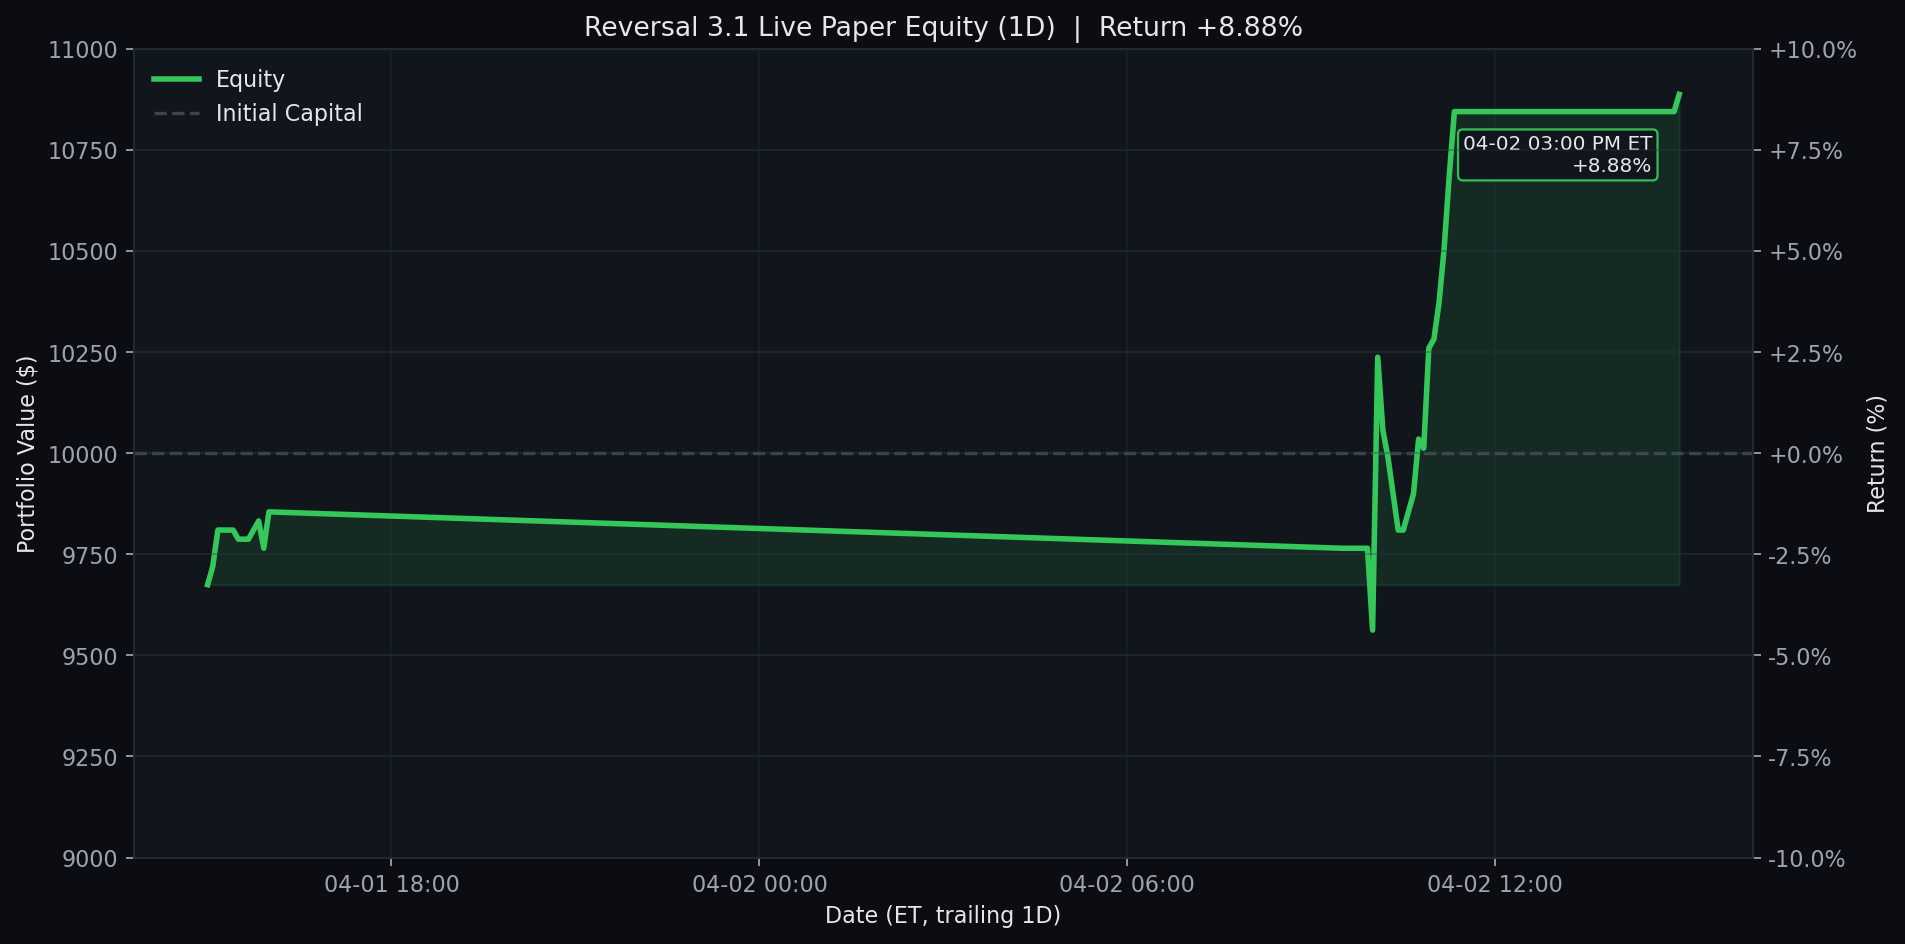
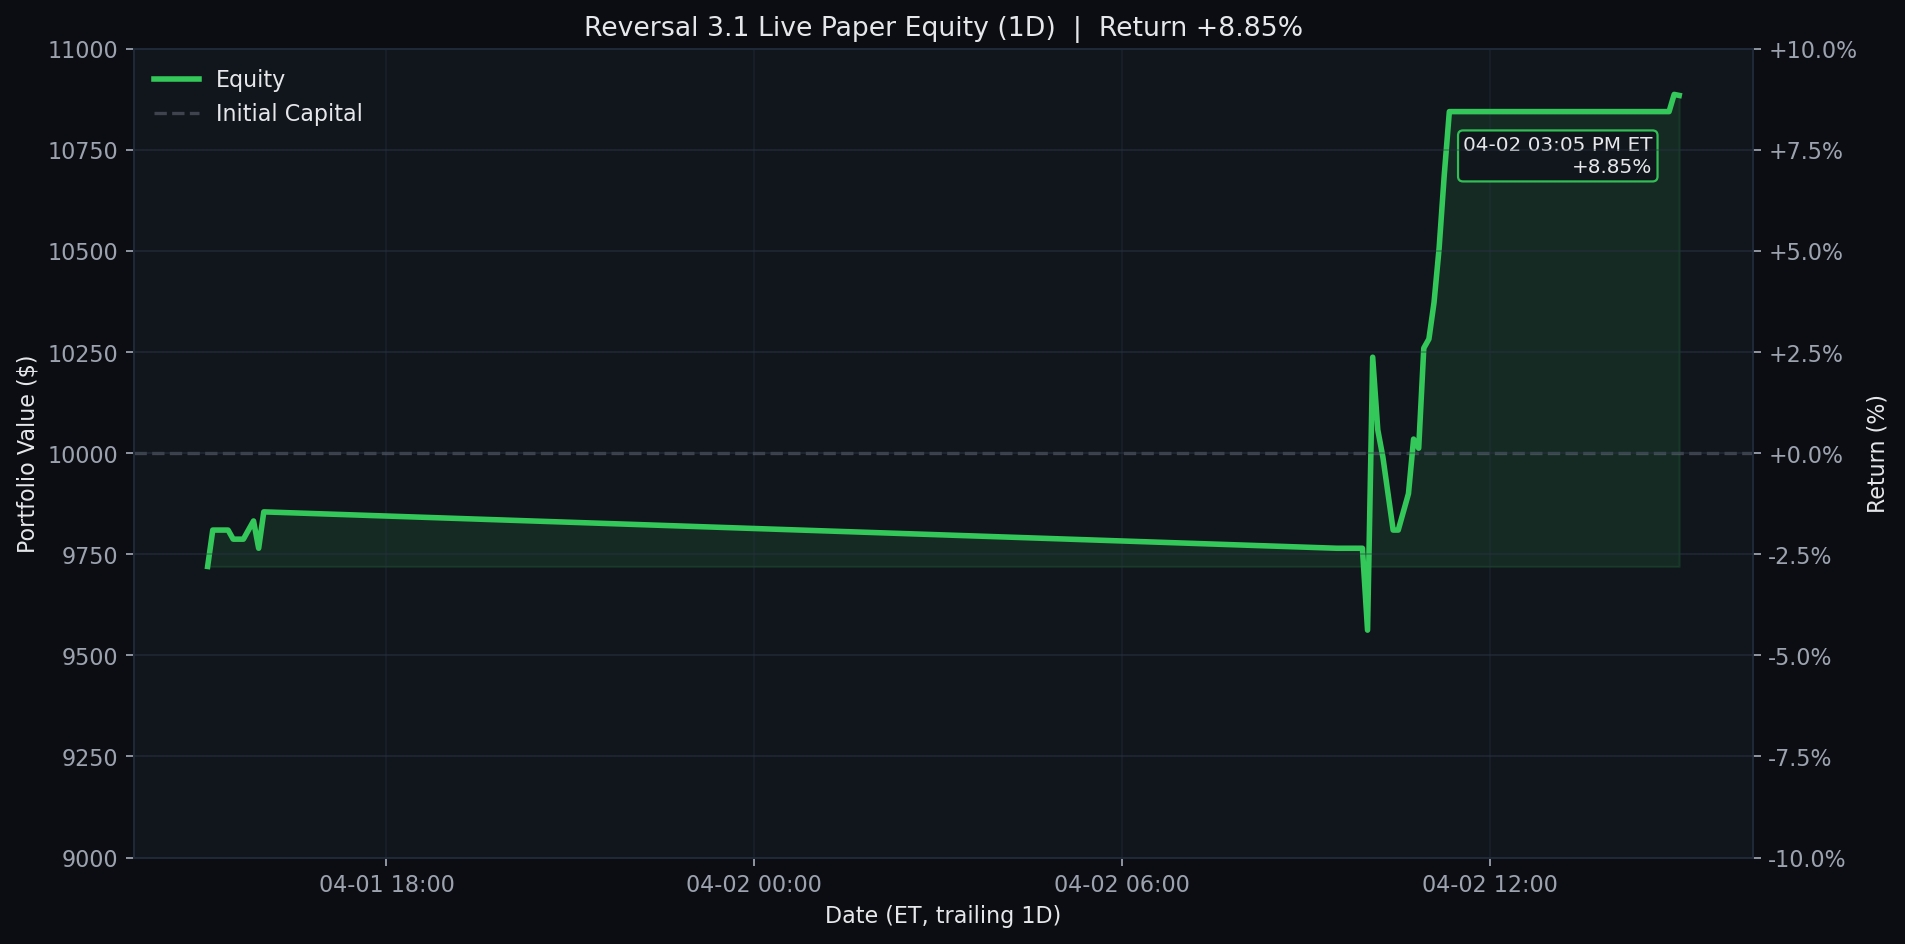
Update Reversal 3.1 live paper test 2026-04-02 15:05 ET

diff --git a/results/reversal_3_1_live/README.md b/results/reversal_3_1_live/README.md
@@ -1,6 +1,6 @@
 # Reversal 3.1 Live Paper Test
 
-Last updated (ET): `2026-04-02 15:00:05 EDT`
+Last updated (ET): `2026-04-02 15:05:00 EDT`
 Last processed slot: `entry_1500`
 
 ## Active Configuration
@@ -20,16 +20,16 @@ Last processed slot: `entry_1500`
 ## Portfolio Snapshot
 
 - Cash: `$8,102.50`
-- Equity: `$10,887.50`
+- Equity: `$10,885.00`
 - Realized PnL: `$845.00`
-- Unrealized PnL: `$42.50`
+- Unrealized PnL: `$40.00`
 - Open positions: `1`
 
 ## Open Positions
 
 ```text
 ticker    contract_symbol entry_trade_date  business_days_held  entry_option_price  current_option_price  entry_spot  current_spot  unrealized_pnl  unrealized_return_pct  success_rate  matched_signals  current_drop_pct  entry_iv_pct  current_iv_pct  rolling_sigma_20d_pct
-   WDC WDC260501C00295000       2026-04-02                   0               27.42                 27.85      294.77        294.77            42.5                   1.55         97.22               36              0.99         81.84           83.11                  91.06
+   WDC WDC260501C00295000       2026-04-02                   0               27.42                 27.82      294.77        295.41            40.0                   1.46         97.22               36              0.99         81.84           81.99                  91.06
 ```
 
 ## Today's Closed Trades (2026-04-02)
@@ -43,24 +43,25 @@ ticker     contract_symbol entry_trade_date_et exit_trade_date_et  entry_option_
 
 ```text
 ticker  success_rate_%  matched_signals  current_drop_%  target_rebound_$  target_price  rolling_sigma_20d_%  call_candidate
-   WDC           97.22               36            0.99              2.07        296.84                91.06            True
-  MPWR           91.89               37            0.55              4.32       1117.66                56.57            True
-  ASML           91.67               12            3.18             30.30       1346.78                52.01            True
-  DXCM           90.70               43            0.88              0.39         62.20                31.67            True
-  CDNS           90.48               42            0.93              1.83        279.41                26.25            True
-  ORLY           90.24               41            0.52              0.34         91.96                22.81            True
-  FAST           89.66               29            0.88              0.29         46.51                21.97            True
-   MAR           88.89               36            0.72              1.68        332.74                28.45            True
-  GILD           88.46               26            0.73              0.71        139.99                21.47            True
-  KLAC           87.50               32            1.09             11.58       1514.88                56.48            True
+   WDC           97.44               39            0.78              1.62        297.03                91.06            True
+  ASML           92.86               14            2.91             27.68       1347.90                52.01            True
+  DXCM           91.11               45            0.77              0.34         62.23                31.67            True
+  FAST           90.32               31            0.78              0.26         46.52                21.97            True
+  ORLY           90.24               41            0.58              0.37         91.94                22.81            True
+  CDNS           88.89               45            0.59              1.16        279.69                26.25            True
+   MAR           88.89               36            0.64              1.50        332.82                28.45            True
+  GILD           88.46               26            0.73              0.72        139.99                21.47            True
+  KLAC           86.49               37            0.82              8.68       1516.12                56.48            True
    WBD           85.71               35            0.53              0.10         27.45                11.93            True
-   CSX           85.71               21            0.74              0.21         41.35                27.84            True
+   CSX           85.71               21            0.71              0.21         41.35                27.84            True
+ GOOGL           84.62               39            0.61              1.27        296.85                35.66            True
 ```
 
 ## Recent Events
 
 ```text
                     timestamp_et        slot   event_type                                                                                                                                                                           detail
+2026-04-02T15:05:00.892731-04:00  entry_1500 slot_skipped                                                                                                                                                  {"reason": "already_processed"}
 2026-04-02T15:00:05.892985-04:00  entry_1500 slot_skipped                                                                                                                                                  {"reason": "already_processed"}
 2026-04-02T14:55:05.878211-04:00  entry_1500 slot_skipped                                                                                                                                                  {"reason": "already_processed"}
 2026-04-02T14:50:05.884978-04:00  entry_1500        entry {"allocated_cash": 2742.5, "contract_symbol": "WDC260501C00295000", "contracts": 1, "entry_option_price": 27.425, "matched_signals": 36, "success_rate": 97.22, "ticker": "WDC"}
@@ -70,7 +71,6 @@ ticker  success_rate_%  matched_signals  current_drop_%  target_rebound_$  targe
 2026-04-02T14:25:06.347985-04:00 manage_1430 slot_skipped                                                                                                                                                  {"reason": "already_processed"}
 2026-04-02T14:10:05.893357-04:00 manage_1400 slot_skipped                                                                                                                                                  {"reason": "already_processed"}
 2026-04-02T14:05:05.889867-04:00 manage_1400 slot_skipped                                                                                                                                                  {"reason": "already_processed"}
-2026-04-02T14:00:05.896681-04:00 manage_1400 slot_skipped                                                                                                                                                  {"reason": "already_processed"}
 ```
 
 ## Equity Curves

diff --git a/README.md b/README.md
@@ -3,8 +3,8 @@
 <!-- reversal-3.1-live:start -->
 ## Reversal 3.1 Live Paper Test
 
-- Last updated (ET): `2026-04-02 15:00:05 EDT`
-- Equity: `$10,887.50` | Realized: `$845.00` | Unrealized: `$42.50` | Open positions: `1`
+- Last updated (ET): `2026-04-02 15:05:00 EDT`
+- Equity: `$10,885.00` | Realized: `$845.00` | Unrealized: `$40.00` | Open positions: `1`
 - Today closed trades: `1`
 - Current slot: `entry_1500`
 - Universe: `qqq_plus_leverage_etfs`
@@ -14,7 +14,7 @@
 
 ```text
 ticker    contract_symbol  current_option_price  unrealized_pnl  unrealized_return_pct  business_days_held
-   WDC WDC260501C00295000                 27.85            42.5                   1.55                   0
+   WDC WDC260501C00295000                 27.82            40.0                   1.46                   0
 ```
 
 <details>
